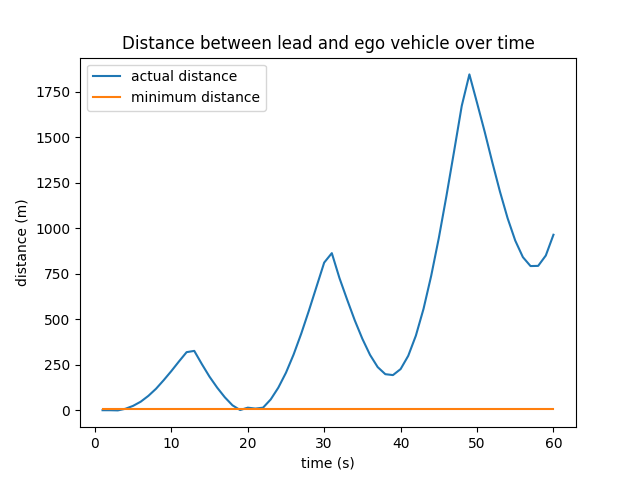
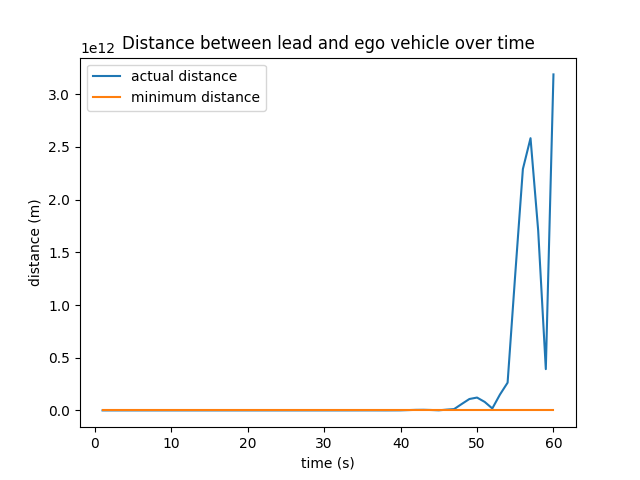
tried setting error bounds but acceleration is still skyrocketing. not sure whats wrong.

diff --git a/src/acc.cc b/src/acc.cc
@@ -18,36 +18,23 @@ void ACC::SetPID(double P, double I, double D) {
 }
 
 void ACC::ApplyControl(double lead_distance, double ego_distance, double actual_speed) {
-  //  std::cout << "lead distance: " << lead_distance << ", " << "ego distance: " << ego_distance << std::endl;
-   // std::cout << "abs distance: " << abs(lead_distance-ego_distance) << std::endl;
-   // std::cout << "---------------" << std::endl;
+    std::cout << "lead distance: " << lead_distance << ", " << "ego distance: " << ego_distance << std::endl;
+    std::cout << "abs distance: " << abs(lead_distance-ego_distance) << std::endl;
+    std::cout << "---------------" << std::endl;
 
     this->actual_speed=actual_speed;
 
     if(abs(lead_distance-ego_distance) > set_distance) {
         // minimum distance is not violated
 
-     //   std::cout << "dist not violated" << std::endl;
+        std::cout << "dist not violated" << std::endl;
         setpoint = set_speed;
         
         // calculate control value
         control = controller.Compute(actual_speed, setpoint); 
 
-
-/*        if(actual_speed>set_speed) {
-            std::cout << "too fast" << std::endl;
-            // slow down a bit
-            brake = -control;
-            gas = 0;
-        } else {
-            std::cout << "too slow" << std::endl;
-            // speed up a bit
-            gas = control;
-            brake = 0;
-        } */
-
     } else {
-//        std::cout << "dist violated" << std::endl;
+        std::cout << "dist violated" << std::endl;
         // minimum distance is violated
         setpoint = abs(set_speed-actual_speed);
         // trigger PID to act around new setpoint
@@ -59,7 +46,7 @@ void ACC::ApplyControl(double lead_distance, double ego_distance, double actual_
        // gas = 0;
     } 
 
-    control = control*0.1;
+//    control = control*0.1;
 //    if(control>10) {
  //       control=control*0.1;
 //    } else if(control<-10) {
@@ -74,8 +61,8 @@ void ACC::ApplyControl(double lead_distance, double ego_distance, double actual_
         brake=-control;
     }
 
-//    std::cout << "setpoint: " << setpoint << ", actual speed: " << actual_speed << ", control -> " << control << std::endl;
-//    std::cout << "gas: " << gas << ", " << "brake: " << brake << std::endl;
+    std::cout << "setpoint: " << setpoint << ", actual speed: " << actual_speed << ", control -> " << control << std::endl;
+    std::cout << "gas: " << gas << ", " << "brake: " << brake << std::endl;
 
 
 }
@@ -93,7 +80,7 @@ double ACC::GetAcceleration() {
 
     force = force_gas + force_brake + force_resistance;
     acceleration = force / mass;
-//    std::cout << "acceleration: " << acceleration << std::endl;
+    std::cout << "acceleration: " << acceleration << std::endl;
     return acceleration;
 }
 
@@ -106,4 +93,8 @@ double ACC::GetError() {
 double ACC::GetErrorSum() {
     error_sum = controller.GetErrorSum();
     return error_sum;
+}
+
+void ACC::SetBounds(double minimum, double maximum) {
+    controller.SetOutputLimits(minimum, maximum);
 }

diff --git a/src/main.cc b/src/main.cc
@@ -23,6 +23,8 @@ int main(int argc, char* argv[]) {
     // set PID params through ACC
     acc.SetPID(0.15,1.0,0.0003);
 
+    acc.SetBounds(-20, 20);
+
     // iterate through clk
     for(int i=0; i<SIMDURATION; i++) {
 
@@ -40,7 +42,7 @@ int main(int argc, char* argv[]) {
 //        std::cout << "after state update" << std::endl;
  //       std::cout << "ego.GetSpeed(): " << ego.GetSpeed() << " lead.GetSpeed(): " << lead.GetSpeed() << std::endl;
 
-        std::cout << acc.GetError() << "," << acc.GetErrorSum() << "," << lead.GetSpeed() << "," << ego.GetSpeed() << "," << lead.GetAcceleration() << "," << ego.GetAcceleration() << "," << abs(lead.GetPosition()-ego.GetPosition()) << std::endl;
+//        std::cout << acc.GetError() << "," << acc.GetErrorSum() << "," << lead.GetSpeed() << "," << ego.GetSpeed() << "," << lead.GetAcceleration() << "," << ego.GetAcceleration() << "," << abs(lead.GetPosition()-ego.GetPosition()) << std::endl;
 
     }
 }

diff --git a/src/pid.cc b/src/pid.cc
@@ -1,4 +1,5 @@
 #include "pid.h"
+#include <iostream>
 
 // constructor
 PID::PID() {
@@ -61,6 +62,7 @@ double PID::Compute(double actual, double setpoint) {
 
     double error=setpoint-actual; // error
 
+    std::cout << "error: " << error << std::endl;
     // proportional error
     p_output=P*error; // P * current error
 
@@ -79,12 +81,15 @@ double PID::Compute(double actual, double setpoint) {
 
     // total output value
     output=p_output+i_output+d_output;
+    std::cout << "output: " << output << std::endl;
 
     // error sum computing
     if(min_output!=max_output && !CheckBounds(output, min_output, max_output)) {
         error_sum=error;;
+        std::cout << "min=max or bounds check failed" << std::endl;
     } else {
         error_sum+=error;
+        std::cout << "error accumulation: " << error_sum << std::endl;
     }
 
     last_output=output;

diff --git a/include/acc.h b/include/acc.h
@@ -14,6 +14,8 @@ public:
     double GetError();
 
     double GetErrorSum();
+    
+    void SetBounds(double, double);
 
 private:
     double set_speed;
@@ -31,6 +33,8 @@ private:
     double error;
     double error_sum;
     double control;
+    double minimum;
+    double maximum;
 
     const double mass=1200.0;
     const double force_peak=mass*3.0;
